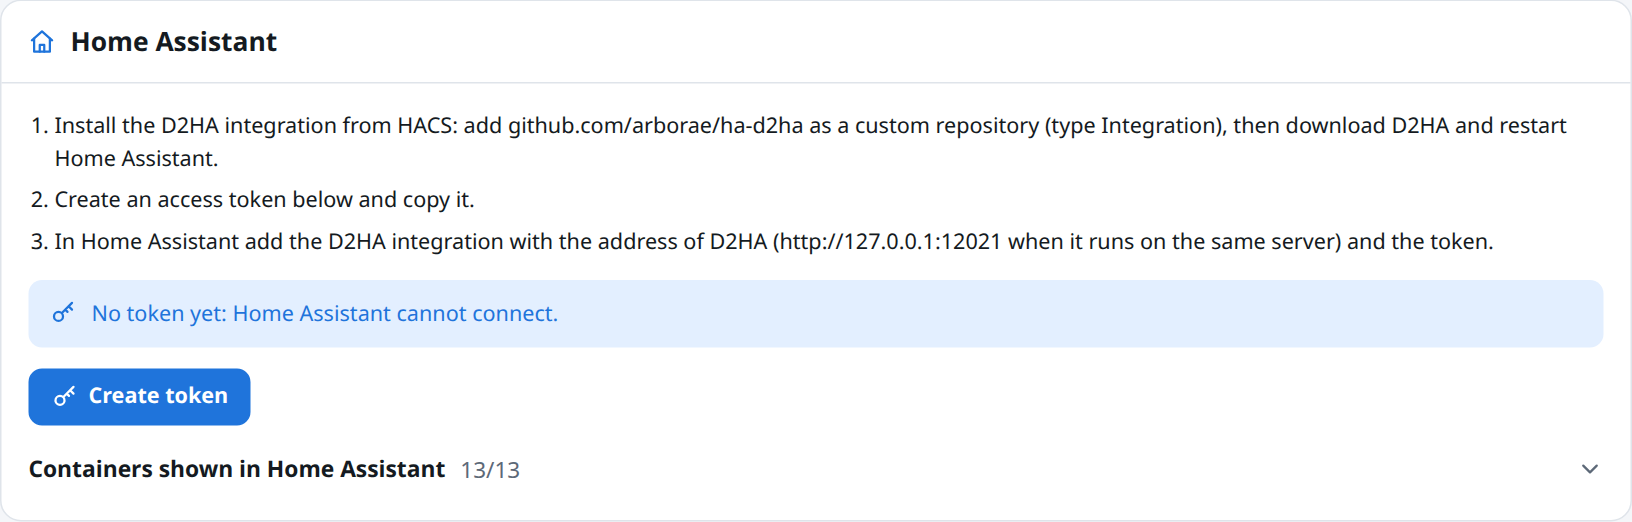
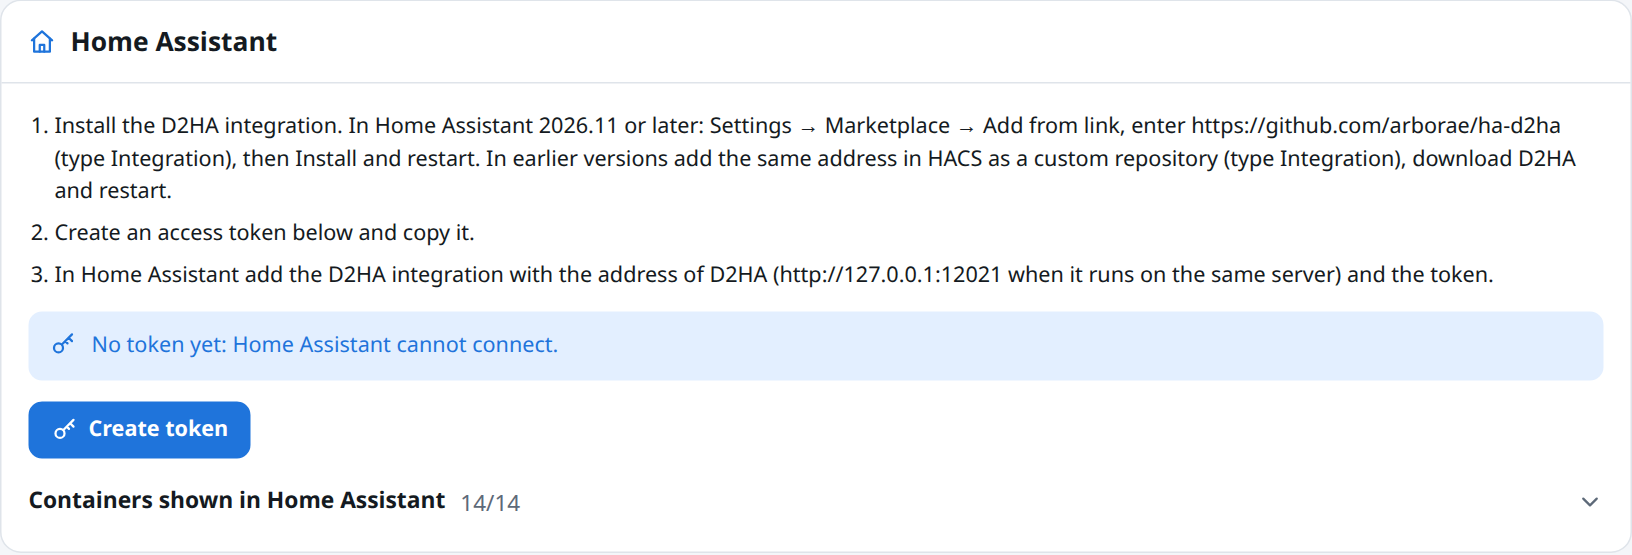
docs: install instructions for Home Assistant's built-in Marketplace
Home Assistant 2026.11 ships HACS as its built-in Marketplace. The README
and Settings → Home Assistant now start from Settings → Marketplace → Add
from link, and keep HACS for earlier versions. The badge uses the
marketplace_repository My link, which my.home-assistant.io still sends to
older instances as hacs_repository. New settings screenshot from the demo.

Closes #243

diff --git a/README.md b/README.md
@@ -16,7 +16,7 @@ D2HA is a container that watches your Docker host. It finds the real new version
 - **Image cleanup.** Remove the images no container uses any more.
 - **Telegram notifications.** A message when a new version is out (once per version, with the release notes and a warning for breaking changes), when a container stops with an error and when it becomes unhealthy.
 - **Logs.** The last lines or the live stream, with search, levels in colour, wrap and download.
-- **Home Assistant.** An integration from HACS: an update entity for each container (install and release notes from Home Assistant), container states, counters, and buttons to check, update all and clean images.
+- **Home Assistant.** An integration from the Marketplace (HACS before Home Assistant 2026.11): an update entity for each container (install and release notes from Home Assistant), container states, counters, and buttons to check, update all and clean images.
 - **Private by design.** Sign-in with optional two-factor authentication, no third-party requests from the browser, no environment variables or secrets shown, and an example setup where D2HA reaches Docker only through a socket proxy.
 - **Everywhere.** Light and dark theme, English and Italian, installable as an app on phones and computers.
 
@@ -54,9 +54,11 @@ Options (all optional) are listed in [`.env.example`](.env.example): the hours b
 
 ### 2. Home Assistant
 
-[![Open this repository in HACS](https://my.home-assistant.io/badges/hacs_repository.svg)](https://my.home-assistant.io/redirect/hacs_repository/?owner=arborae&repository=ha-d2ha&category=integration)
+[![Open this repository in the Marketplace](https://my.home-assistant.io/badges/marketplace_repository.svg)](https://my.home-assistant.io/redirect/marketplace_repository/?owner=arborae&repository=ha-d2ha&category=integration)
 
-1. In HACS, add `https://github.com/arborae/ha-d2ha` as a custom repository of type **Integration** (or open the link above), download **D2HA** and restart Home Assistant.
+1. Install the integration. The link above opens it in the Marketplace (or in HACS) and offers to add it.
+   - **Home Assistant 2026.11 or later:** open **Settings → Marketplace → Add from link**, enter `https://github.com/arborae/ha-d2ha` with type **Integration** (the first time, the Marketplace asks you to connect GitHub), then **Install** and **Restart Home Assistant**.
+   - **Earlier versions:** in HACS, add `https://github.com/arborae/ha-d2ha` as a custom repository of type **Integration**, download **D2HA** and restart Home Assistant.
 2. In D2HA, open **Settings → Home Assistant** and create a token.
 3. In Home Assistant, **Settings → Devices & services → Add integration → D2HA**: enter the address of D2HA (`http://127.0.0.1:12021` when Home Assistant runs on the same host with `network_mode: host`) and the token.
 

diff --git a/CHANGELOG.md b/CHANGELOG.md
@@ -3,6 +3,13 @@
 All notable changes to this project are documented here.
 The format follows [Keep a Changelog](https://keepachangelog.com/en/1.1.0/) and the project uses [Semantic Versioning](https://semver.org/).
 
+## [Unreleased]
+
+### Changed
+- Home Assistant 2026.11 ships HACS as its built-in **Marketplace**: the install
+  instructions in Settings and in the README now start from **Settings → Marketplace →
+  Add from link**, and keep HACS for earlier versions.
+
 ## [0.5.1] - 2026-11-06
 
 ### Added
